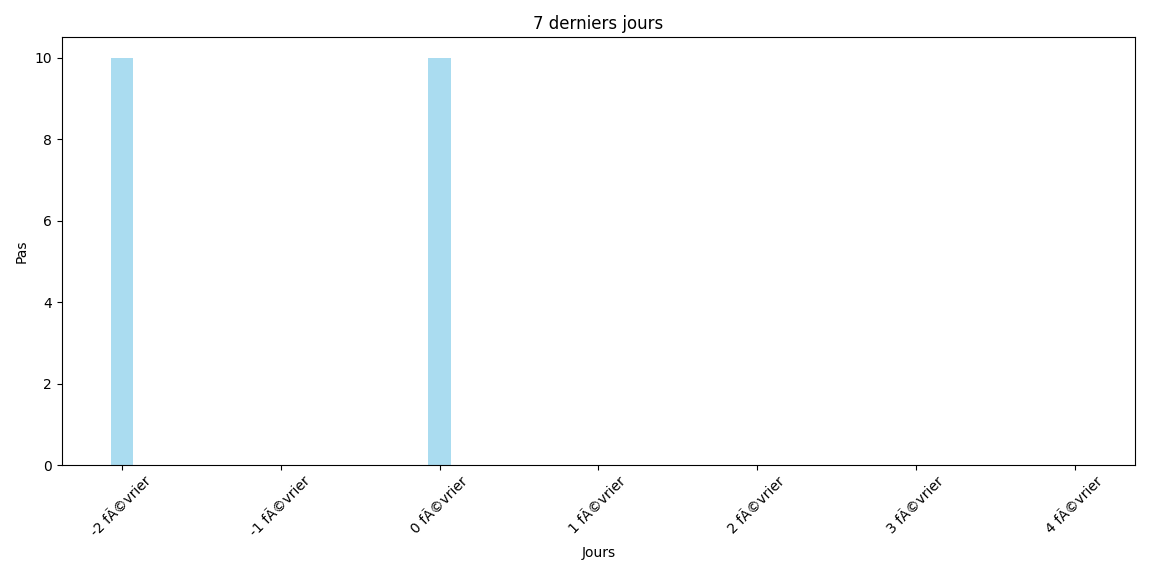
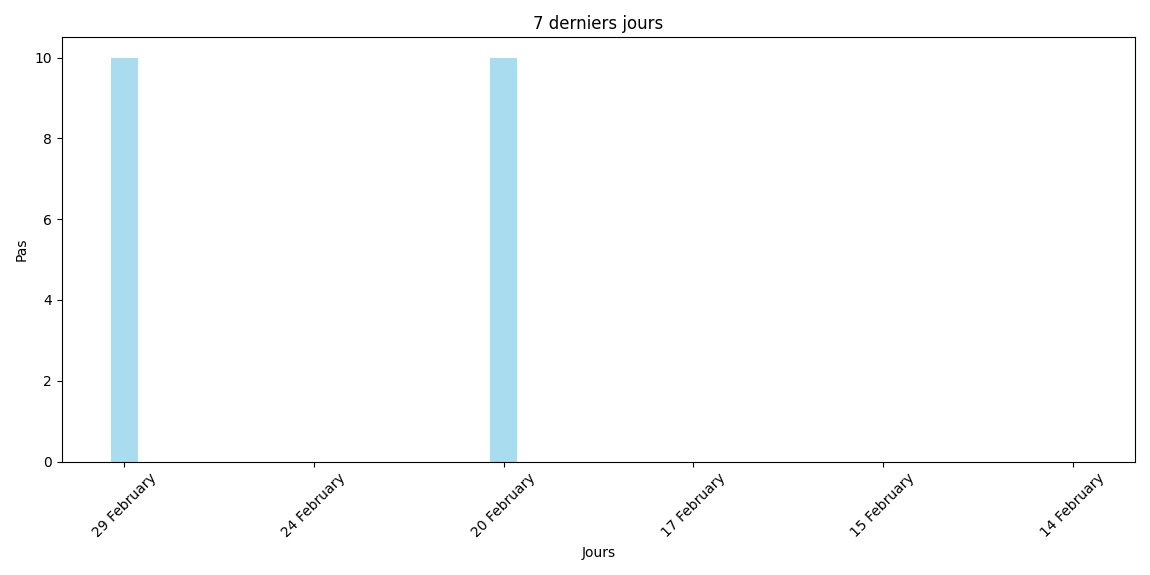
d
correction in progress

diff --git a/main/data_show.py b/main/data_show.py
@@ -9,13 +9,31 @@ def create_x_days_graph(the_data_label, list_of_the_data_to_graph, number_of_day
     today = datetime.datetime.now()
     day = today.day
     month = today.month
+    year = today.year
     month_name = calendar.month_name[today.month]
     if number_of_days < 10:
         for i in range(1, number_of_days+1):
-            labels.append(f"{day-number_of_days+i} {month_name}")
+            day = day-number_of_days+i
+            if day < 1:
+                if month == 1:
+                    month = 12
+                    year -= 1
+                else:
+                    month -= 1
+                day = calendar.monthrange(year, month)[1] + day
+            labels.append(f"{day} {month_name}")
             
     else:
         for i in range(1, number_of_days+1):
+            day = day-number_of_days+i
+            if day < 1:
+                if month == 1:
+                    month = 12
+                    year -= 1
+                else:
+                    month -= 1
+                day = calendar.monthrange(year, month)[1] + day
+               
             labels.append(
                 f"{'0' if (day - number_of_days + i) < 10 else ''}{day - number_of_days + i}"
                 f"/{'0' if int(month) < 10 else ''}{month}"

diff --git a/info/README.md b/info/README.md
@@ -174,6 +174,7 @@ dossier users
     Bonus : 
         Envoi de mail de rappel
         Mail recap
+        L'utilisateur peux choisir la semaine, mois ou annee qu il veut regarder
         Adaptation de la page
         Regarder par rapport à la sécurité
         Meilleur CSS
